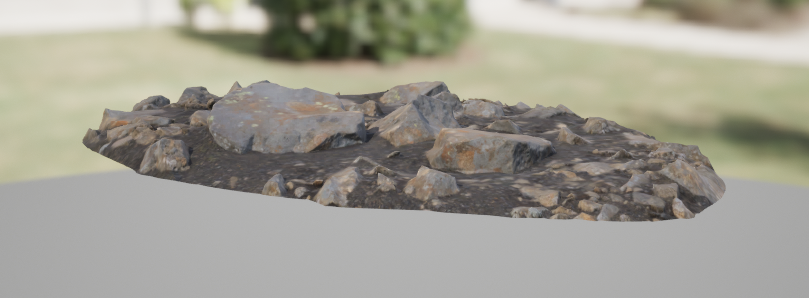
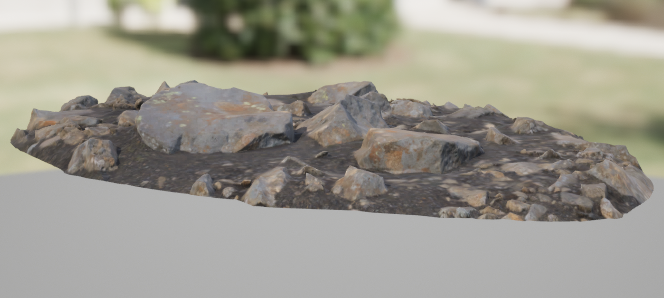
Update config.yml

diff --git a/_posts/2026-06-03-startunreal26-04.md b/_posts/2026-06-03-startunreal26-04.md
@@ -55,12 +55,13 @@ categories: 시작해요언리얼[2026]
 부서진 벽의 파편은 바위 에셋을 활용해 표현하였습니다. 두 종류의 에셋을 조합해, 벽이 파괴되며 날아온 파편이 건물과 지면에 박혀 있는 듯한 장면을 연출하고자 했습니다.
 
 <p align="center">
-  <img src="/assets/images/2026-06-03/startunreal32.png" style="height:200px;">
+  <img src="/assets/images/2026-06-03/startunreal32.png" style="height:150px;">
   &nbsp;
-  <img src="/assets/images/2026-06-03/startunreal33.png" style="height:200px;">
-  &nbsp;
-  <img src="/assets/images/2026-06-03/startunreal34.png" style="height:200px;">
+  <img src="/assets/images/2026-06-03/startunreal33.png" style="height:150px;">
+   &nbsp;
+  <img src="/assets/images/2026-06-03/startunreal34.png" style="height:150px;">
 </p>
+
 
 #### [결과물]
 